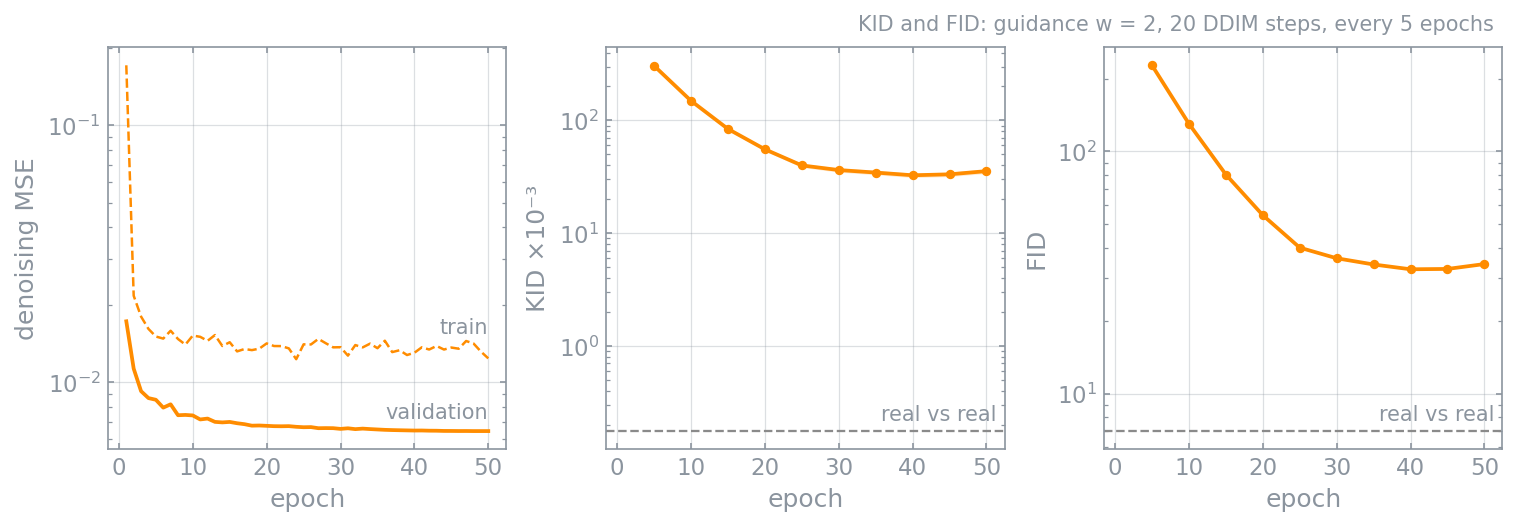
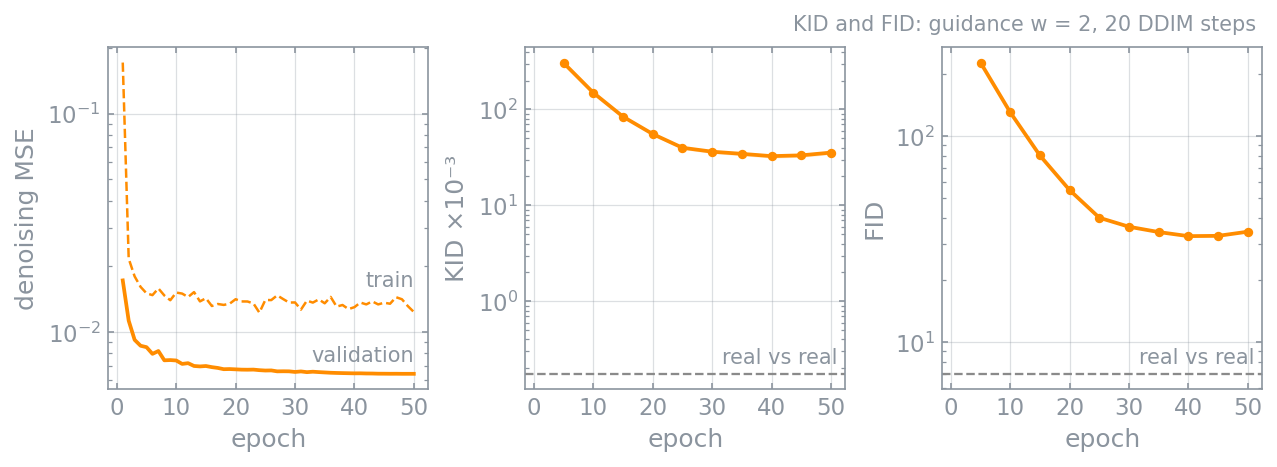
feat: plot training curves script

diff --git a/scripts/plot_training_curves.py b/scripts/plot_training_curves.py
@@ -1,0 +1,83 @@
+"""Plot a training run: denoising loss, KID and FID per epoch, with the
+real-vs-real floor in the quality panels.
+
+Usage:
+    python -m scripts.plot_training_curves runs/good_run --out assets/training_curves.png
+"""
+
+import argparse
+import pickle
+from pathlib import Path
+
+import matplotlib.pyplot as plt
+import pandas as pd
+from matplotlib.ticker import MultipleLocator
+
+from scripts.plot_sampler_metrics import FLOOR_COLOR, INK, STYLE
+from src.config import RUNS_DIR
+from src.metrics import load_floor
+
+COLOR = "darkorange"
+
+
+def label_floor(ax, value: float) -> None:
+    ax.axhline(value, color=FLOOR_COLOR, linestyle="--", linewidth=1.1)
+    ax.annotate(
+        "real vs real", (1, value), xycoords=("axes fraction", "data"),
+        textcoords="offset points", xytext=(-4, 3), ha="right", va="bottom",
+        fontsize=10, color=INK,
+    )
+
+
+def main() -> None:
+    parser = argparse.ArgumentParser(description=__doc__.splitlines()[0])
+    parser.add_argument("run_dir", type=Path, nargs="?", default=RUNS_DIR)
+    parser.add_argument("--out", type=Path, default=None)
+    args = parser.parse_args()
+
+    with open(args.run_dir / "history.pkl", "rb") as f:
+        table = pd.DataFrame(pickle.load(f)["epochs"]).set_index("epoch")
+    scored = table.dropna(subset=["kid"])
+    floor = load_floor()
+
+    plt.rcParams.update(STYLE)
+    figure, (loss_ax, kid_ax, fid_ax) = plt.subplots(
+        1, 3, figsize=(8.4, 3.0), sharex=True, layout="constrained"
+    )
+    figure.get_layout_engine().set(wspace=0.04)
+
+    loss_ax.plot(table.index, table["train_loss"], color=COLOR, linewidth=1.2, linestyle="--")
+    loss_ax.plot(table.index, table["val_mse"], color=COLOR, linewidth=1.8)
+    loss_ax.annotate("train", (table.index[-1], table["train_loss"].iloc[-1]),
+                     textcoords="offset points", xytext=(0, 12), ha="right", fontsize=10, color=INK)
+    loss_ax.annotate("validation", (table.index[-1], table["val_mse"].iloc[-1]),
+                     textcoords="offset points", xytext=(0, 6), ha="right", fontsize=10, color=INK)
+    loss_ax.set(yscale="log", ylabel="denoising MSE")
+
+    kid = 1e3 * scored["kid"]
+    kid_std = 1e3 * scored["kid_std"]
+    kid_ax.fill_between(scored.index, kid - kid_std, kid + kid_std, color=COLOR, alpha=0.18, linewidth=0)
+    kid_ax.plot(scored.index, kid, color=COLOR, marker="o", markersize=3.5, linewidth=1.8)
+    label_floor(kid_ax, 1e3 * floor["kid"])
+    kid_ax.set(yscale="log", ylabel="KID ×10⁻³")
+
+    fid_ax.plot(scored.index, scored["fid"], color=COLOR, marker="o", markersize=3.5, linewidth=1.8)
+    label_floor(fid_ax, floor["fid"])
+    fid_ax.set(yscale="log", ylabel="FID")
+
+    for ax in (loss_ax, kid_ax, fid_ax):
+        ax.set_xlabel("epoch")
+        ax.xaxis.set_major_locator(MultipleLocator(10))
+        ax.grid(True, which="major")
+        ax.set_axisbelow(True)
+
+    figure.suptitle("KID and FID: guidance w = 2, 20 DDIM steps",
+                    fontsize=10, color=INK, x=0.99, ha="right")
+    out = args.run_dir / "training_curves.png" if args.out is None else args.out
+    figure.savefig(out, dpi=150, bbox_inches="tight", transparent=True)
+    plt.close(figure)
+    print(out)
+
+
+if __name__ == "__main__":
+    main()
